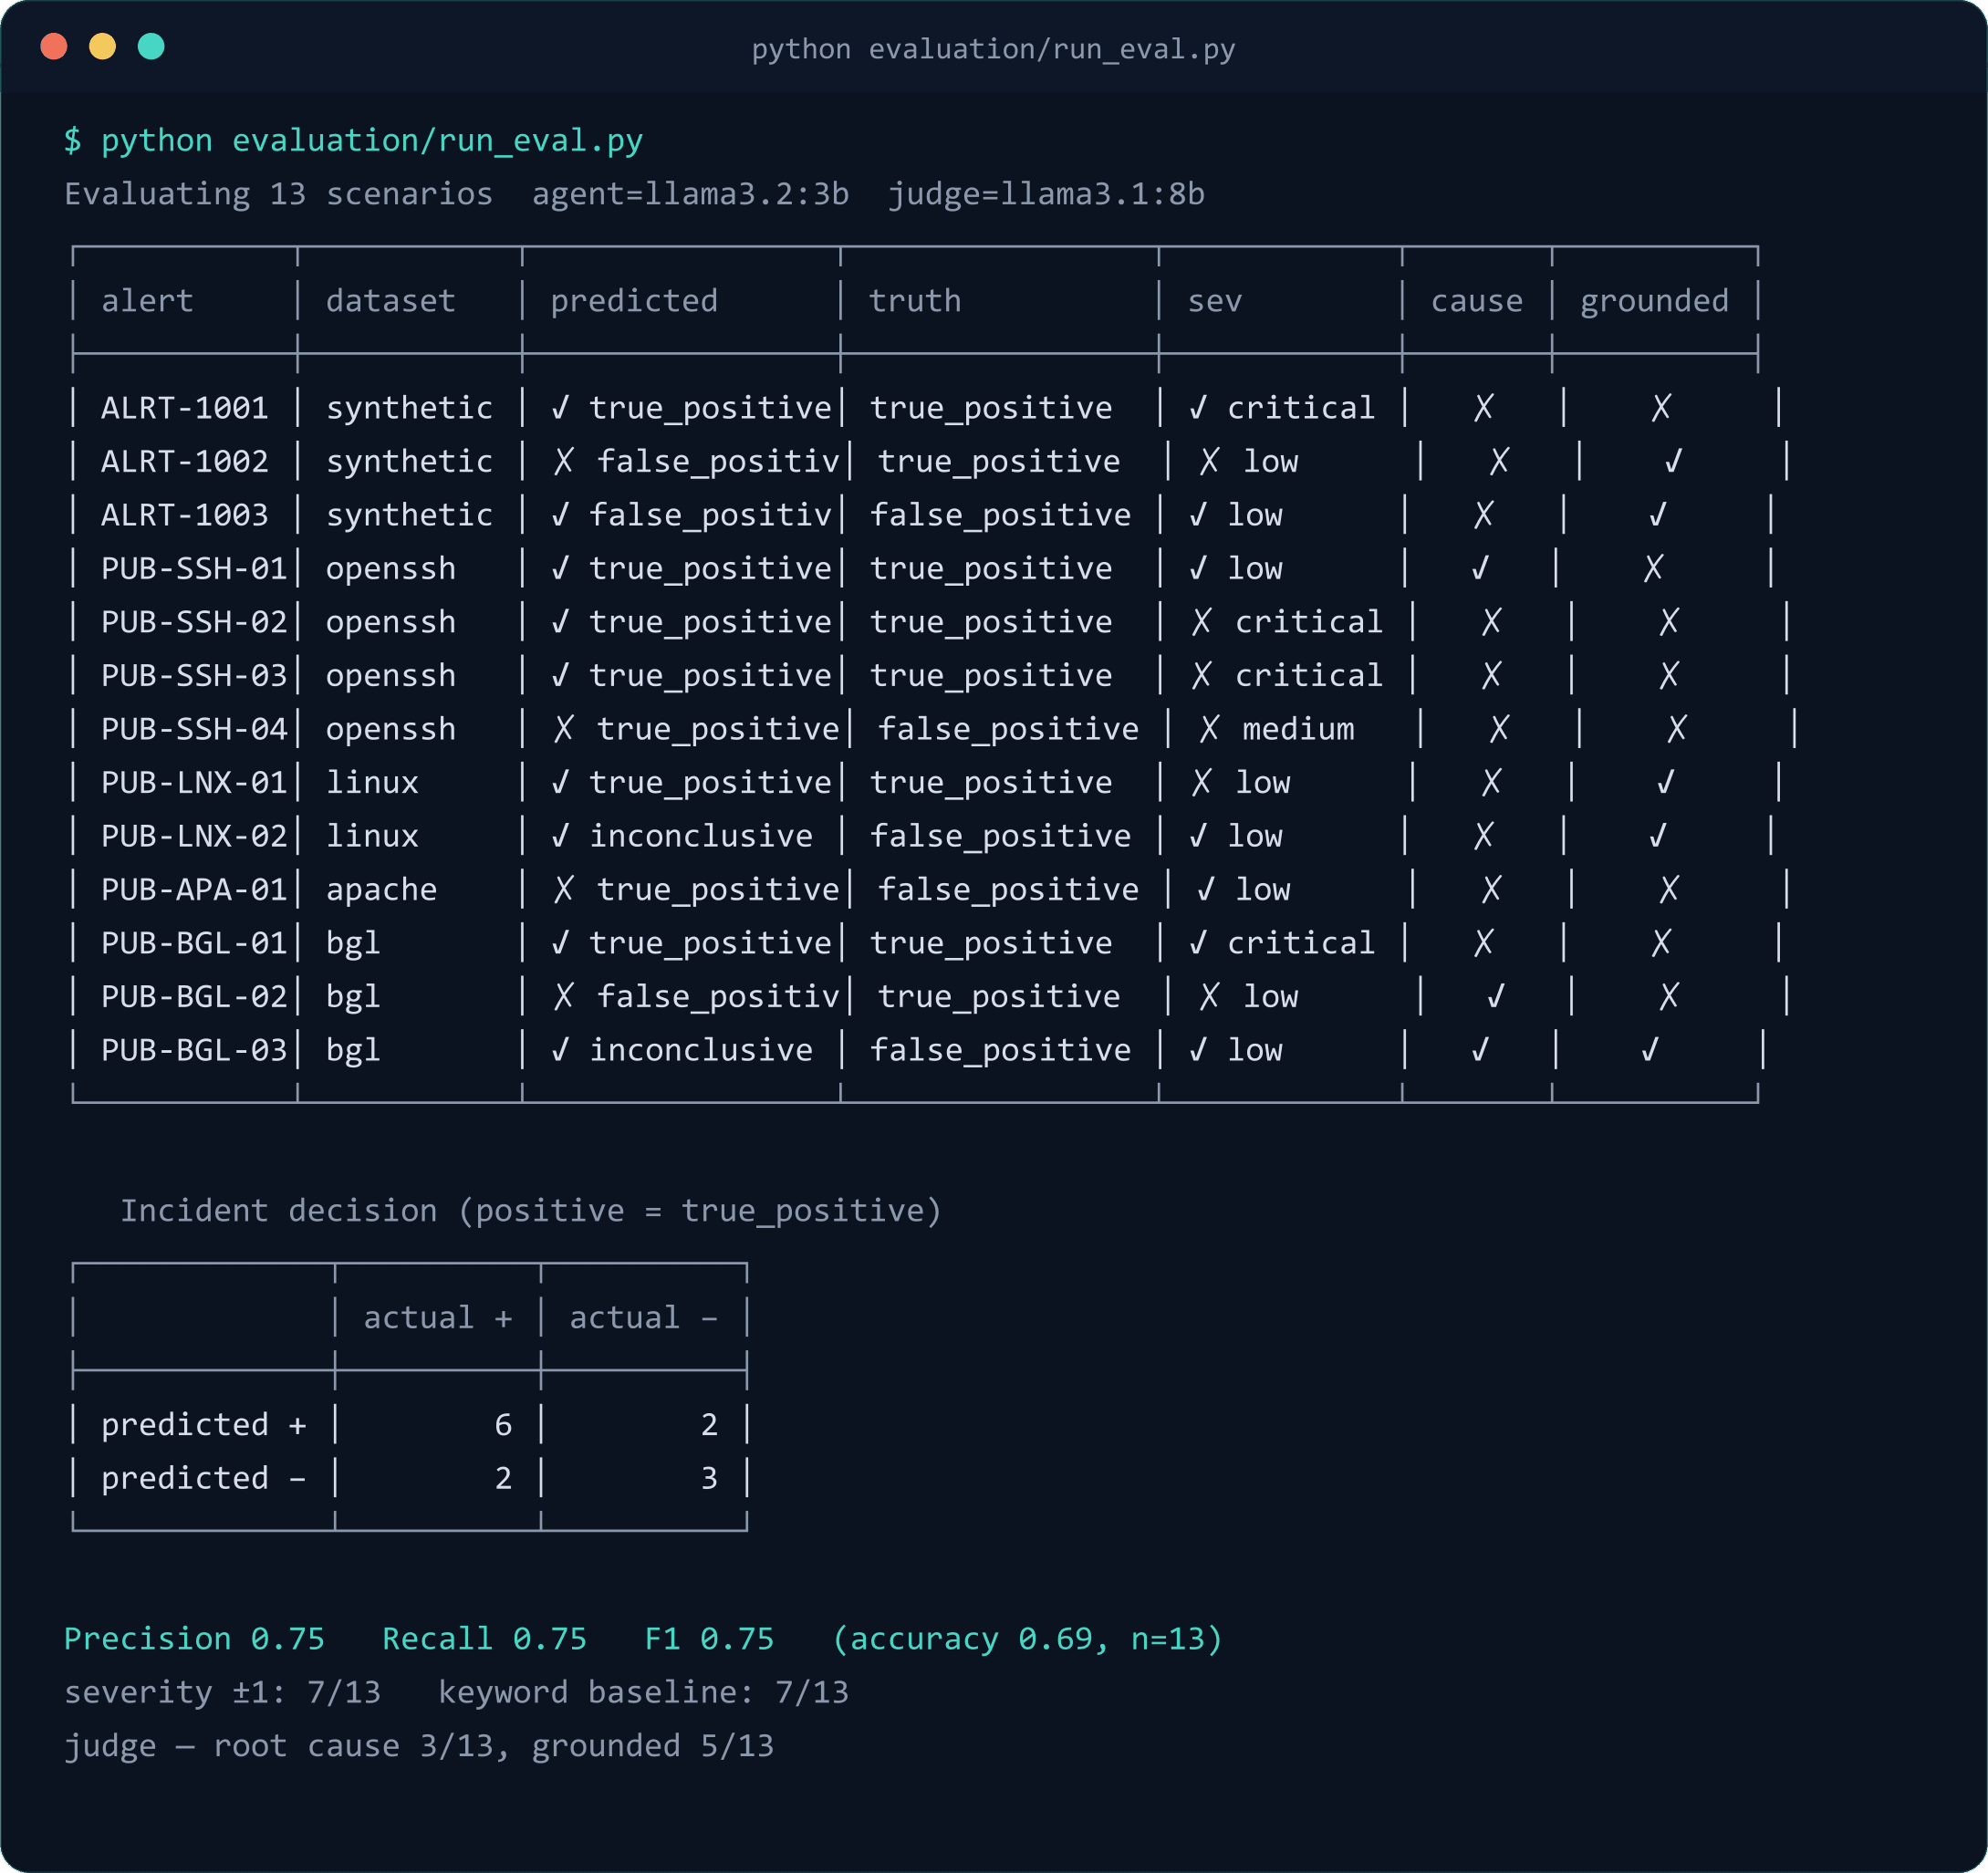
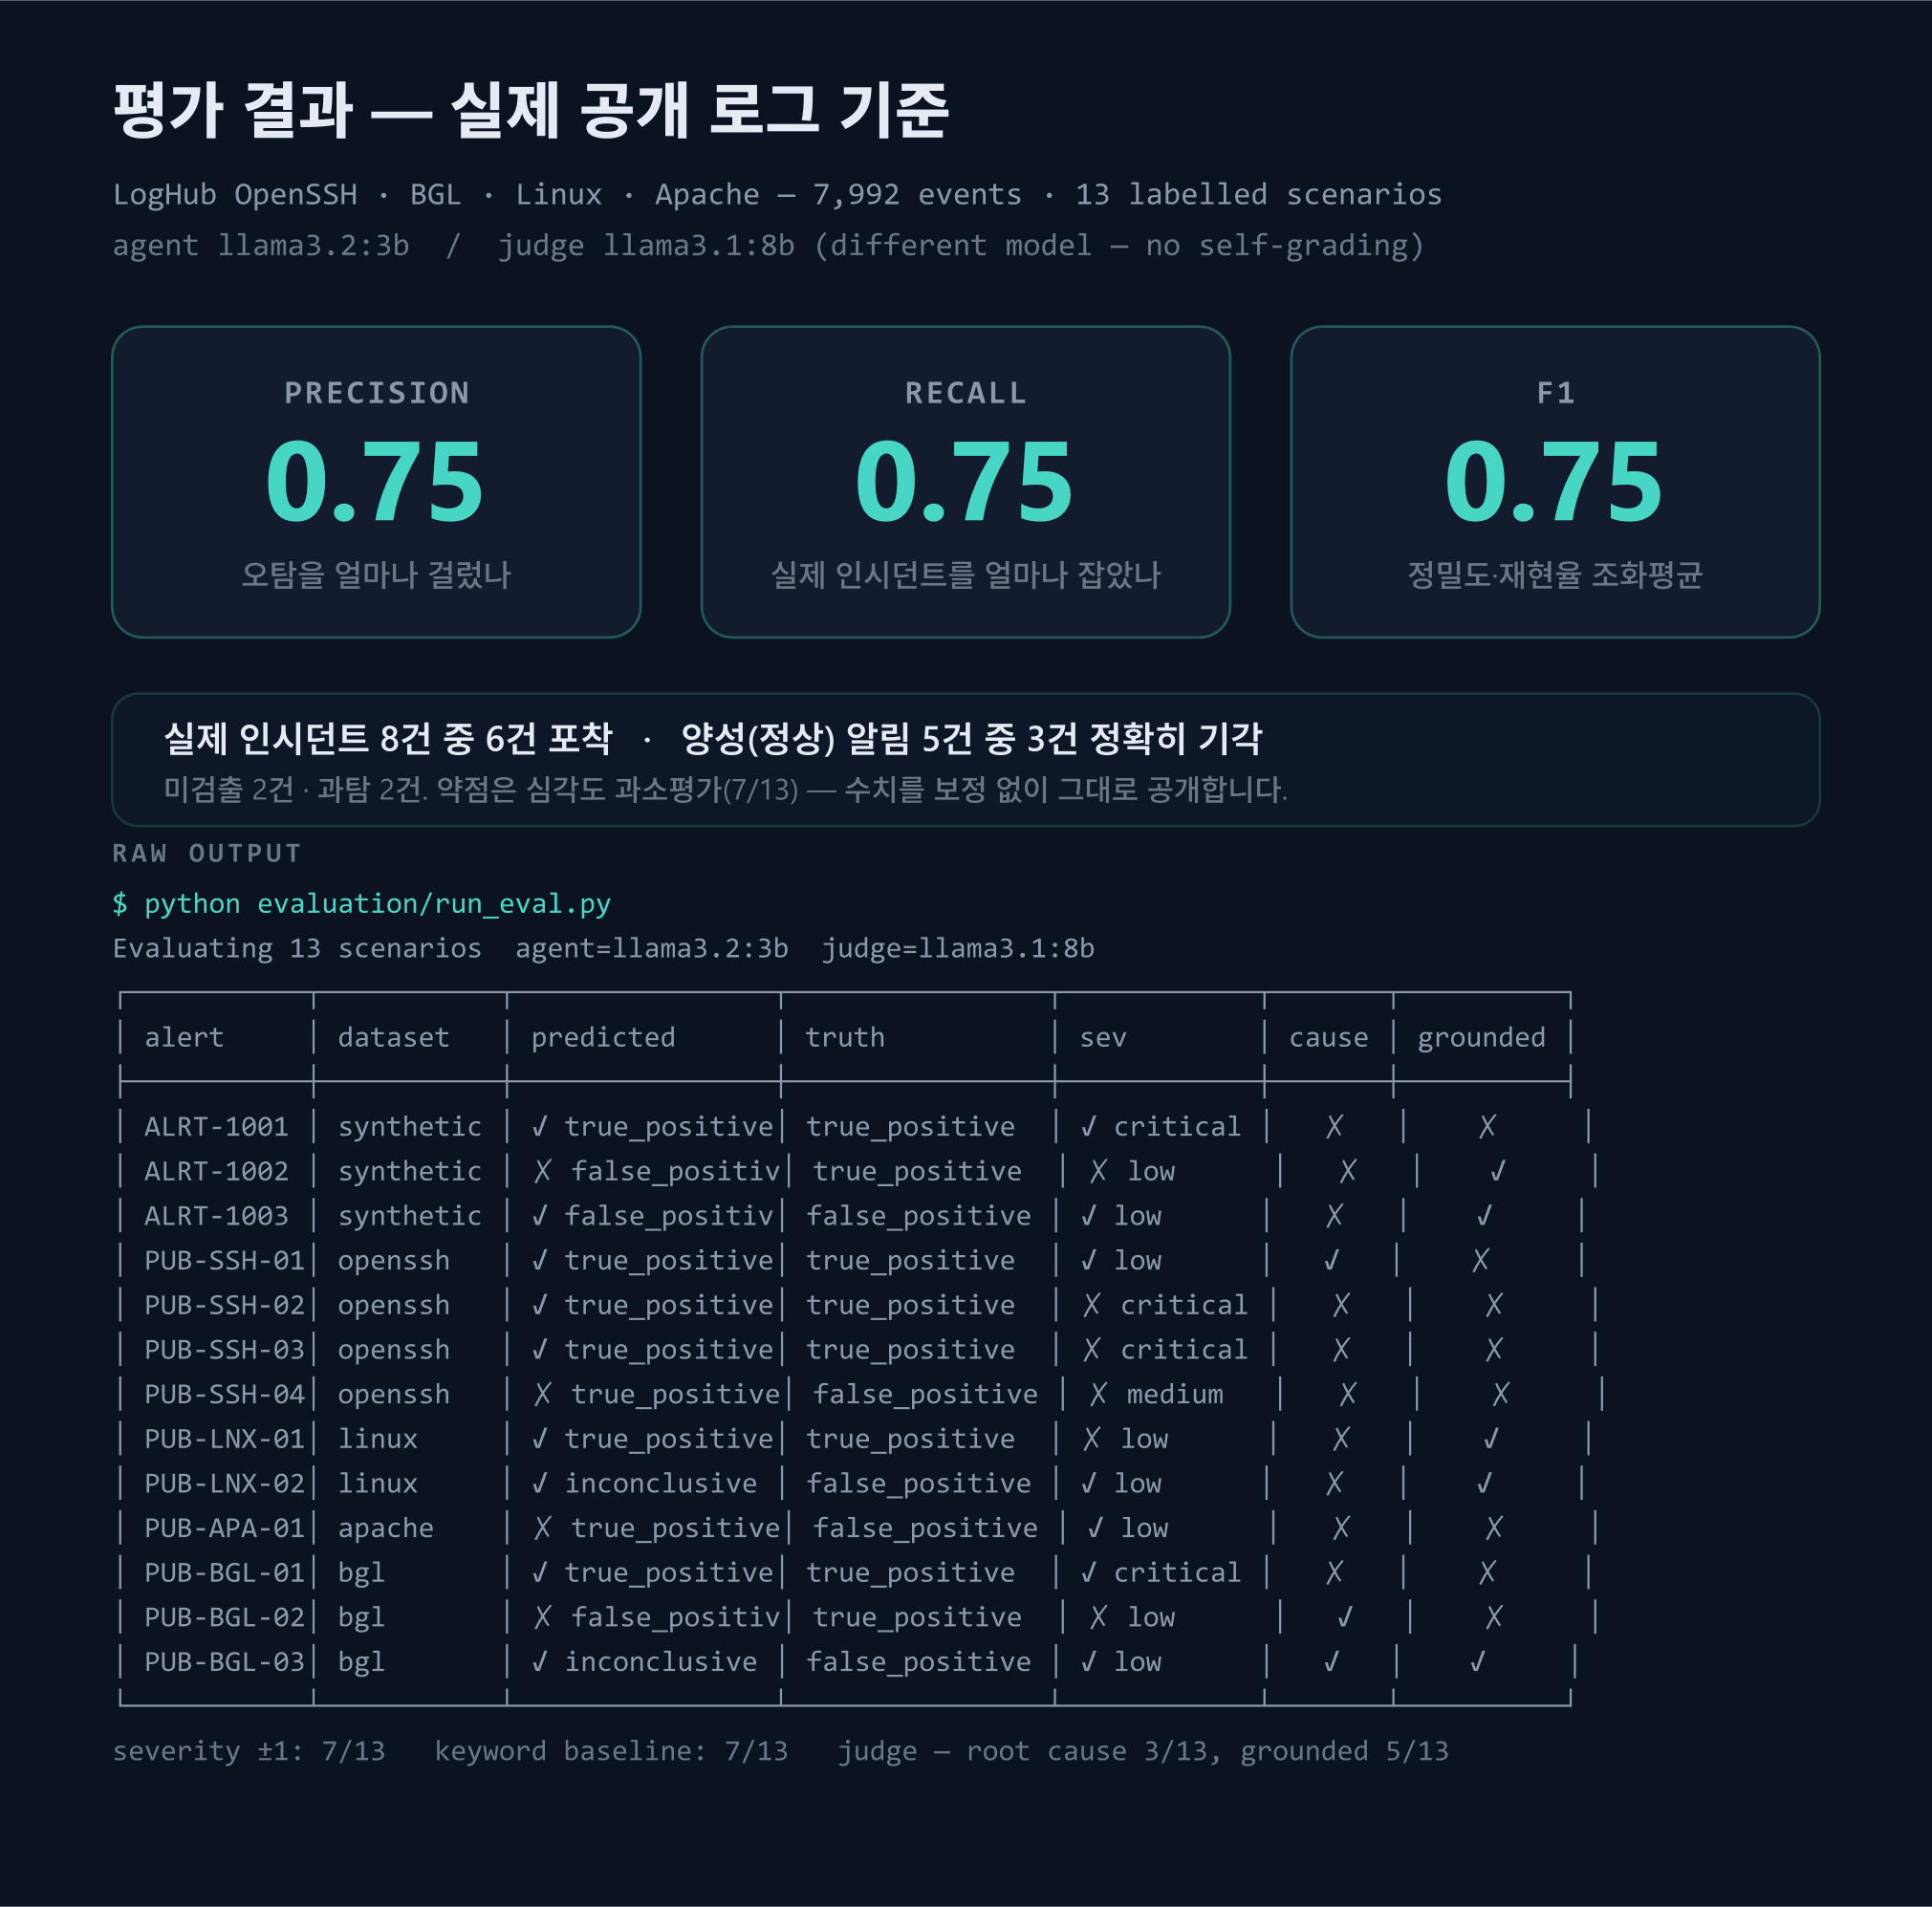
Lead eval image with headline metrics; surface the customer delivery loop
- Rebuild the evaluation image so precision/recall/F1 and the plain-language
  reading come first, with the raw run output kept below as evidence
- Add the post-delivery loop (customer feedback -> internal review -> revision
  -> re-delivery) to the platform and time-series projects and to the
  experience bullets

diff --git a/src/data/projects.ts b/src/data/projects.ts
@@ -59,6 +59,12 @@ export const featuredProjects: FeaturedProject[] = [
           solution:
             "모듈 간 입력·출력·진행 상태·오류 반환 규칙을 공통 인터페이스로 정리하고, UI에서 동일한 방식으로 작업을 실행해 진행률과 결과를 받도록 연결 계층을 구성했습니다. 결과 파일의 생성 여부와 데이터 유효성을 단계별로 검사해 오류가 다음 단계로 전파되지 않도록 검증 절차를 추가했습니다.",
         },
+        {
+          problem:
+            "납품 이후 실제 사용 환경에서, 개발 시 가정한 작업 순서와 사용자의 실제 업무 흐름이 달라 불편사항이 접수됐습니다. 기능은 정상 동작했지만 자주 쓰는 순서에서는 단계가 많거나 결과를 확인하기 번거로운 지점이 있었습니다.",
+          solution:
+            "고객과 직접 커뮤니케이션하며 불편사항을 정리하고, 내부 회의에서 반영 범위와 우선순위를 결정했습니다. 처리 흐름과 화면 구성을 수정한 뒤 수정 버전을 다시 납품하고, 같은 절차로 피드백을 재확인하는 주기를 반복하며 실제 업무 흐름에 맞췄습니다.",
+        },
       ],
       growth:
         "여러 기능을 한 화면에 배치하는 것과 실제로 하나의 제품처럼 동작하도록 통합하는 것은 다르다는 점을 배웠습니다. 기능 구현보다 데이터 형식, 처리 단계 간 계약, 오류 전달 방식과 사용자의 실제 작업 순서를 먼저 정의해야 복잡도가 줄었고, 이후에는 개별 기능보다 전체 데이터 흐름과 실패 가능 지점을 먼저 설계하는 습관을 갖게 됐습니다.",
@@ -190,7 +196,7 @@ export const featuredProjects: FeaturedProject[] = [
           problem:
             "개발 환경에서는 정상 동작했지만 실제 배포 환경에서는 라이브러리 버전·실행 경로·좌표계 데이터 파일의 차이로 일부 기능이 실행되지 않았습니다. 오류 메시지만으로는 원인이 분명하지 않았고, 누락 파일을 추가하는 방식으로만 대응하면 다른 환경에서 같은 문제가 반복될 수 있었습니다.",
           solution:
-            "문제가 발생한 환경을 별도로 재현해 실행 단계별 로그와 파일 접근 경로를 비교하고, 애플리케이션 코드의 문제와 실행 환경의 문제를 분리해 확인했습니다. 필요한 구성 요소와 실행 조건을 배포 패키지·점검 절차에 반영하고, 시작 단계에서 주요 의존성과 데이터 경로를 검사하도록 해 사용 중간에 오류가 발생하는 상황을 줄였습니다.",
+            "문제가 발생한 환경을 별도로 재현해 실행 단계별 로그와 파일 접근 경로를 비교하고, 애플리케이션 코드의 문제와 실행 환경의 문제를 분리해 확인했습니다. 필요한 구성 요소와 실행 조건을 배포 패키지·점검 절차에 반영하고, 시작 단계에서 주요 의존성과 데이터 경로를 검사하도록 해 사용 중간에 오류가 발생하는 상황을 줄였습니다. 확인된 원인과 조치 내용은 고객에게 공유하고 수정 버전을 재납품했습니다.",
         },
       ],
       growth:

diff --git a/src/data/experience.ts b/src/data/experience.ts
@@ -13,6 +13,7 @@ export const experience: ExperienceEntry[] = [
       "대용량 영상의 전처리, 분석과 시각화 파이프라인을 구현했습니다.",
       "DirectX 11 기반 렌더링 구조를 구축해 수 GB 규모 영상의 표출 지연을 약 30% 개선했습니다(내부 테스트 기준).",
       "고객 납품 환경에서 발생하는 DLL·좌표계·배포 오류를 현장 관점에서 직접 재현하고 원인을 추적해 해결했습니다.",
+      "납품 이후 고객과 직접 커뮤니케이션하며 불편사항과 개선 요청을 접수하고, 내부 회의에서 반영 범위를 정한 뒤 수정 버전을 재납품하는 주기를 반복했습니다.",
       "개발 결과를 설계서, 처리 흐름도, 시험 절차와 사용자 문서로 정리해 고객에게 전달했습니다.",
     ],
   },